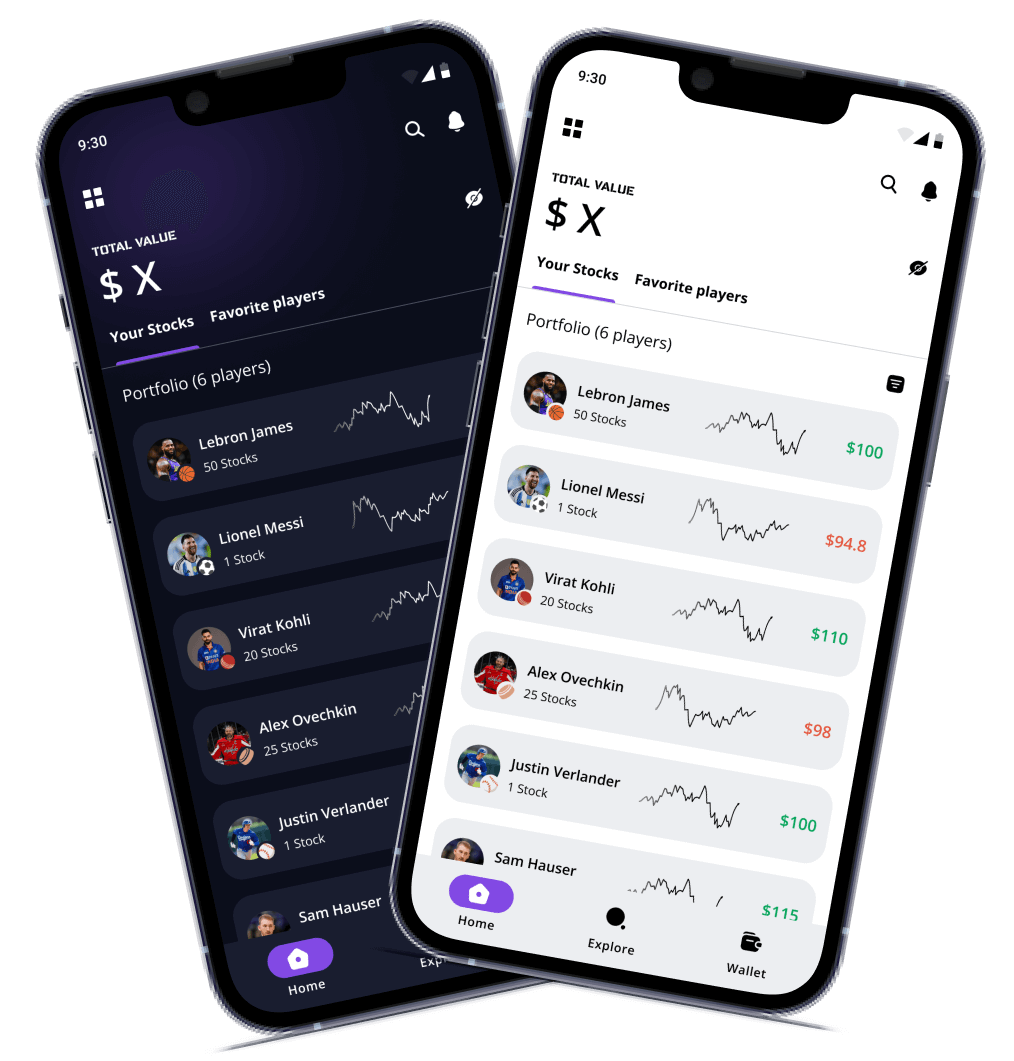
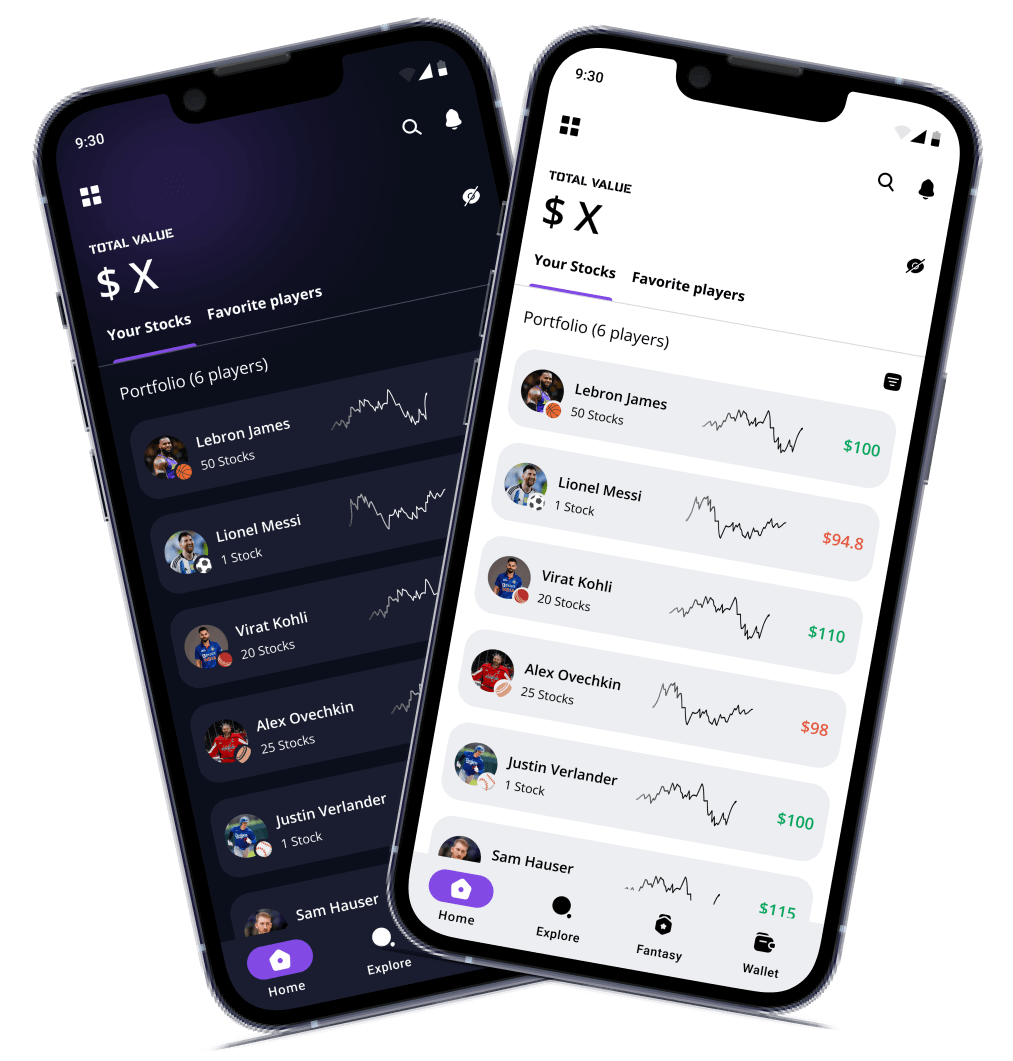
Gaurav dev (#5)
* make fantasy page

* make fantasy page mobile

* fixed and complete screen

* fixed version issue

* fixed image issue

* fixed image issue

* fixed some images issues

diff --git a/src/components/ScreenComponent/FantasyComponent/GxFantasyWorks.jsx b/src/components/ScreenComponent/FantasyComponent/GxFantasyWorks.jsx
@@ -21,6 +21,7 @@ import { faAngleUp, faAngleDown } from "@fortawesome/free-solid-svg-icons";
 
 import smallProgresBar from "../../../assets/Fantasy/progressBarTop.png";
 import bigProgresBar from "../../../assets/Fantasy/progressBarBottom.png";
+import CricketPlayer from "../../../assets/Fantasy/circlePlayer.png";
 
 const GxFantasyWorks = () => {
   const navigate = useNavigate();
@@ -67,7 +68,11 @@ const GxFantasyWorks = () => {
                 </Flex>
                 <Flex className="items-end justify-between">
                   <div className="w-[75%] md:w-[85%]">
-                    <Avatar.Group
+                  <img  src={CricketPlayer}
+                      alt={"Player"}
+                      title={"Player"}
+                      className="h-10 w-[65%]"/>
+                    {/* <Avatar.Group
                       className="w-full"
                       size="large"
                       max={{
@@ -89,7 +94,7 @@ const GxFantasyWorks = () => {
                         style={{ backgroundColor: "#8A66C5" }}
                         icon={<AntDesignOutlined />}
                       />
-                    </Avatar.Group>
+                    </Avatar.Group> */}
                     <p className="mt-3 font-secondFont text-xs font-normal text-white md:text-sm">
                       Jalen, Ben, Trae, Clint, and 2 more
                     </p>
@@ -153,7 +158,7 @@ const GxFantasyWorks = () => {
                         <p>Macbook Pro</p>
                       </div>
                     </Flex>
-                    <div className="relative w-full pt-12">
+                    <div className="relative w-full pt-8">
                       <img
                         src={bigProgresBar}
                         alt={"Progress"}
@@ -203,8 +208,12 @@ const GxFantasyWorks = () => {
                 </p>
               </Flex>
               <Flex className="items-end justify-between">
-                <div className="w-[75%] md:w-[85%]">
-                  <Avatar.Group
+                <div className="w-[75%] md:w-[85%] mt-3">
+                  <img  src={CricketPlayer}
+                      alt={"Player"}
+                      title={"Player"}
+                      className="h-12 w-[40%]"/>
+                  {/* <Avatar.Group
                     className="w-full"
                     size="large"
                     max={{
@@ -226,7 +235,7 @@ const GxFantasyWorks = () => {
                       style={{ backgroundColor: "#8A66C5" }}
                       icon={<AntDesignOutlined />}
                     />
-                  </Avatar.Group>
+                  </Avatar.Group> */}
                   <p className="mt-3 font-secondFont text-xs font-normal text-white md:text-sm">
                     Jalen, Ben, Trae, Clint, and 2 more
                   </p>
@@ -299,7 +308,7 @@ const GxFantasyWorks = () => {
                       <p>Macbook Pro</p>
                     </div>
                   </Flex>
-                  <div className="relative w-full pt-12">
+                  <div className="relative w-full pt-8">
                     {/* <FlagOutlined style={{fontSize: 30, position: 'absolute', left: 55, top: 25 }}/>
                     <Tooltip className="text-right"title="flag 30.2">
                       <Progress

diff --git a/src/screen/StrikeOptions.jsx b/src/screen/StrikeOptions.jsx
@@ -13,12 +13,11 @@ import TransactionRightImgWebp from "../assets/strikeOptions/strike_options_land
 import PlayerLeftImg from "../assets/strikeOptions/strike_options_home.png";
 import TransactionRightImg from "../assets/strikeOptions/strike_options_landing_full.png";
 import topLeftImgWebp from "../assets/strikeOptions/strike_options_home.webp";
-import topLeftMobileImgWebp from "../assets/strikeOptions/strike_options_landing.webp";
+import topLeftMobileImgWebp from "../assets/strikeOptions/StrikeOptionsMobile.webp";
 import topRightImgWebp from "../assets/strikeOptions/strike_options_landing.webp";
 import topLeftImg from "../assets/strikeOptions/strike_options_home.png";
-import topLeftMobileImg from "../assets/strikeOptions/strike_options_landing.png";
+import topLeftMobileImg from "../assets/strikeOptions/StrikeOptionsMobile.png";
 import topRightImg from "../assets/strikeOptions/strike_options_landing.png";
-//
 
 const StrikeOptions = () => {
   useEffect(() => {
@@ -36,7 +35,6 @@ const StrikeOptions = () => {
         topLeftMobileImg={topLeftMobileImg}
         topRightImgWebp={topRightImgWebp}
         topRightImg={topRightImg}
-        actionBy={"STRIKE_OPTIONS"}
       />
       <ImageLeftRightText
         mobileTopPadding={1}

diff --git a/src/screen/Fantasy.jsx b/src/screen/Fantasy.jsx
@@ -16,10 +16,10 @@ import TransactionRightImg from "../assets/Fantasy/Mockups/SelectScreen.png";
 import AnalyticsLeftImg from "../assets/Fantasy/Mockups/Rewards.png";
 import GxFantasyWorks from "../components/ScreenComponent/FantasyComponent/GxFantasyWorks";
 import topLeftImgWebp from "../assets/Fantasy/Mockups/HomeFantasy.webp";
-import topLeftMobileImgWebp from "../assets/gxAppImg/Mockups/App_mobile.webp";
+import topLeftMobileImgWebp from "../assets/Fantasy/Mockups/FantasyMobile.webp";
 import topRightImgWebp from "../assets/Fantasy/Mockups/HomeFantasyLight.webp";
 import topLeftImg from "../assets/Fantasy/Mockups/HomeFantasy.png";
-import topLeftMobileImg from "../assets/gxAppImg/Mockups/App_mobile.png";
+import topLeftMobileImg from "../assets/Fantasy/Mockups/FantasyMobile.png";
 import topRightImg from "../assets/Fantasy/Mockups/HomeFantasyLight.png";
 
 const Fantasy = () => {

diff --git a/src/components/ScreenComponent/GXAppComponent/TopSection.jsx b/src/components/ScreenComponent/GXAppComponent/TopSection.jsx
@@ -15,7 +15,7 @@ const TopSection = (props) => {
     topLeftMobileImgWebp,
     topLeftMobileImg,
     topRightImgWebp,
-    topRightImg,actionBy
+    topRightImg
   } = props;
   const [showModal, setShowModal] = useState(false);
   const [actionType, setActionType] = useState("play");
@@ -112,7 +112,7 @@ const TopSection = (props) => {
             title="GX APP"
           />
         </picture>
-        <picture className={`mb-0 block ${actionBy === "STRIKE_OPTIONS" ? "h-[475px]" : "h-[325px]"}  w-5/6 md:hidden`}>
+        <picture className={`mb-0 block "h-[325px] w-5/6 md:hidden`}>
           <source
             srcSet={topLeftMobileImgWebp}
             type="image/webp"
